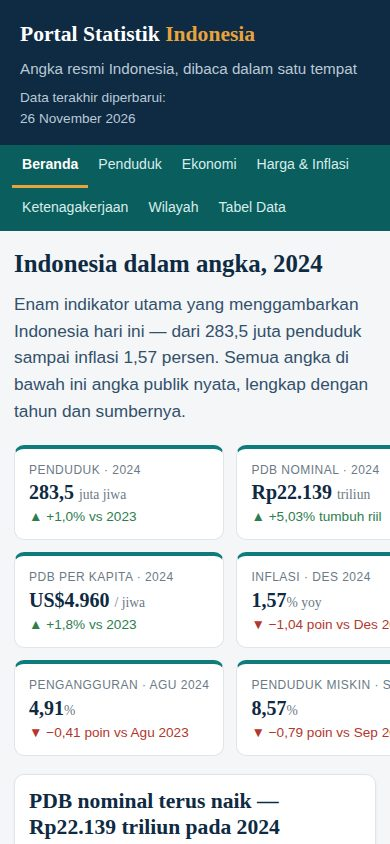
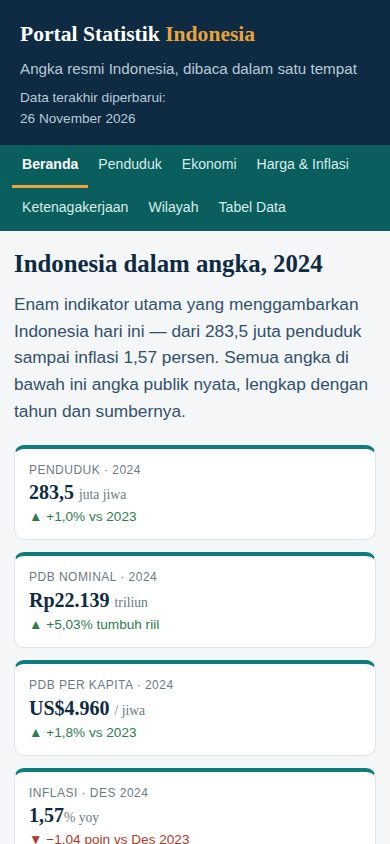
Fix mobile overflow at 390px — indicator cards full width

diff --git a/app/style.css b/app/style.css
@@ -74,6 +74,7 @@ nav.mainnav a.active { color: #fff; border-bottom-color: var(--amber); font-weig
 .page-head { margin-bottom: 20px; }
 .page-head p.lede { font-size: 1.08rem; color: var(--ink-soft); max-width: 72ch; }
 .grid { display: grid; gap: 18px; }
+.grid > * { min-width: 0; }
 .grid-2 { grid-template-columns: 1fr 1fr; }
 .grid-3 { grid-template-columns: repeat(3, 1fr); }
 .card {
@@ -176,6 +177,14 @@ footer.site a { color: #fff; }
 /* Responsif: phone */
 @media (max-width: 900px) {
   .indicators { grid-template-columns: repeat(3, 1fr); }
+  /* Label indikator boleh melipat mulai 3 kolom: kalau tidak, label nowrap
+     terpanjang memaksa kolom melebar melewati viewport (tablet ~640-720px). */
+  .indicator .lbl, .indicator .val { white-space: normal; }
+  /* Tabel lebar (7 kolom di Tabel Data) tidak boleh melebarkan halaman:
+     tabel menggulir di dalam kartu, halaman tetap selebar viewport. */
+  table { display: block; overflow-x: auto; }
+  /* Select dengan opsi panjang (saring pulau) tidak boleh melebarkan kartu. */
+  .controls select, .controls input[type="search"], .controls input[type="text"] { max-width: 100%; min-width: 0; }
   .grid-2, .grid-3 { grid-template-columns: 1fr; }
   .pagelinks { grid-template-columns: 1fr 1fr; }
   .dateline { margin-left: 0; text-align: left; }
@@ -184,7 +193,11 @@ footer.site a { color: #fff; }
   h1 { font-size: 1.55rem; }
   .brand { font-size: 1.35rem; }
   .indicators { grid-template-columns: repeat(2, 1fr); }
+  .indicator { min-width: 0; }
   .indicator .val { font-size: 1.25rem; }
+  /* Label/nilai indikator boleh melipat: nowrap + min-width grid membuat
+     kolom melebar melewati viewport (cacat 4-mobile.jpg). */
+  .indicator .lbl, .indicator .val { white-space: normal; }
   nav.mainnav ul { gap: 0; }
   nav.mainnav a { padding: 9px 10px; font-size: .88rem; }
   .wrap { padding: 18px 14px 32px; }
@@ -193,4 +206,8 @@ footer.site a { color: #fff; }
   table { font-size: .85rem; }
   th, td { padding: 6px 6px; }
   .legend-list { grid-template-columns: 1fr; }
+}
+/* Phone sempit: kartu indikator satu kolom penuh, tidak ada yang terpotong. */
+@media (max-width: 480px) {
+  .indicators { grid-template-columns: 1fr; }
 }
